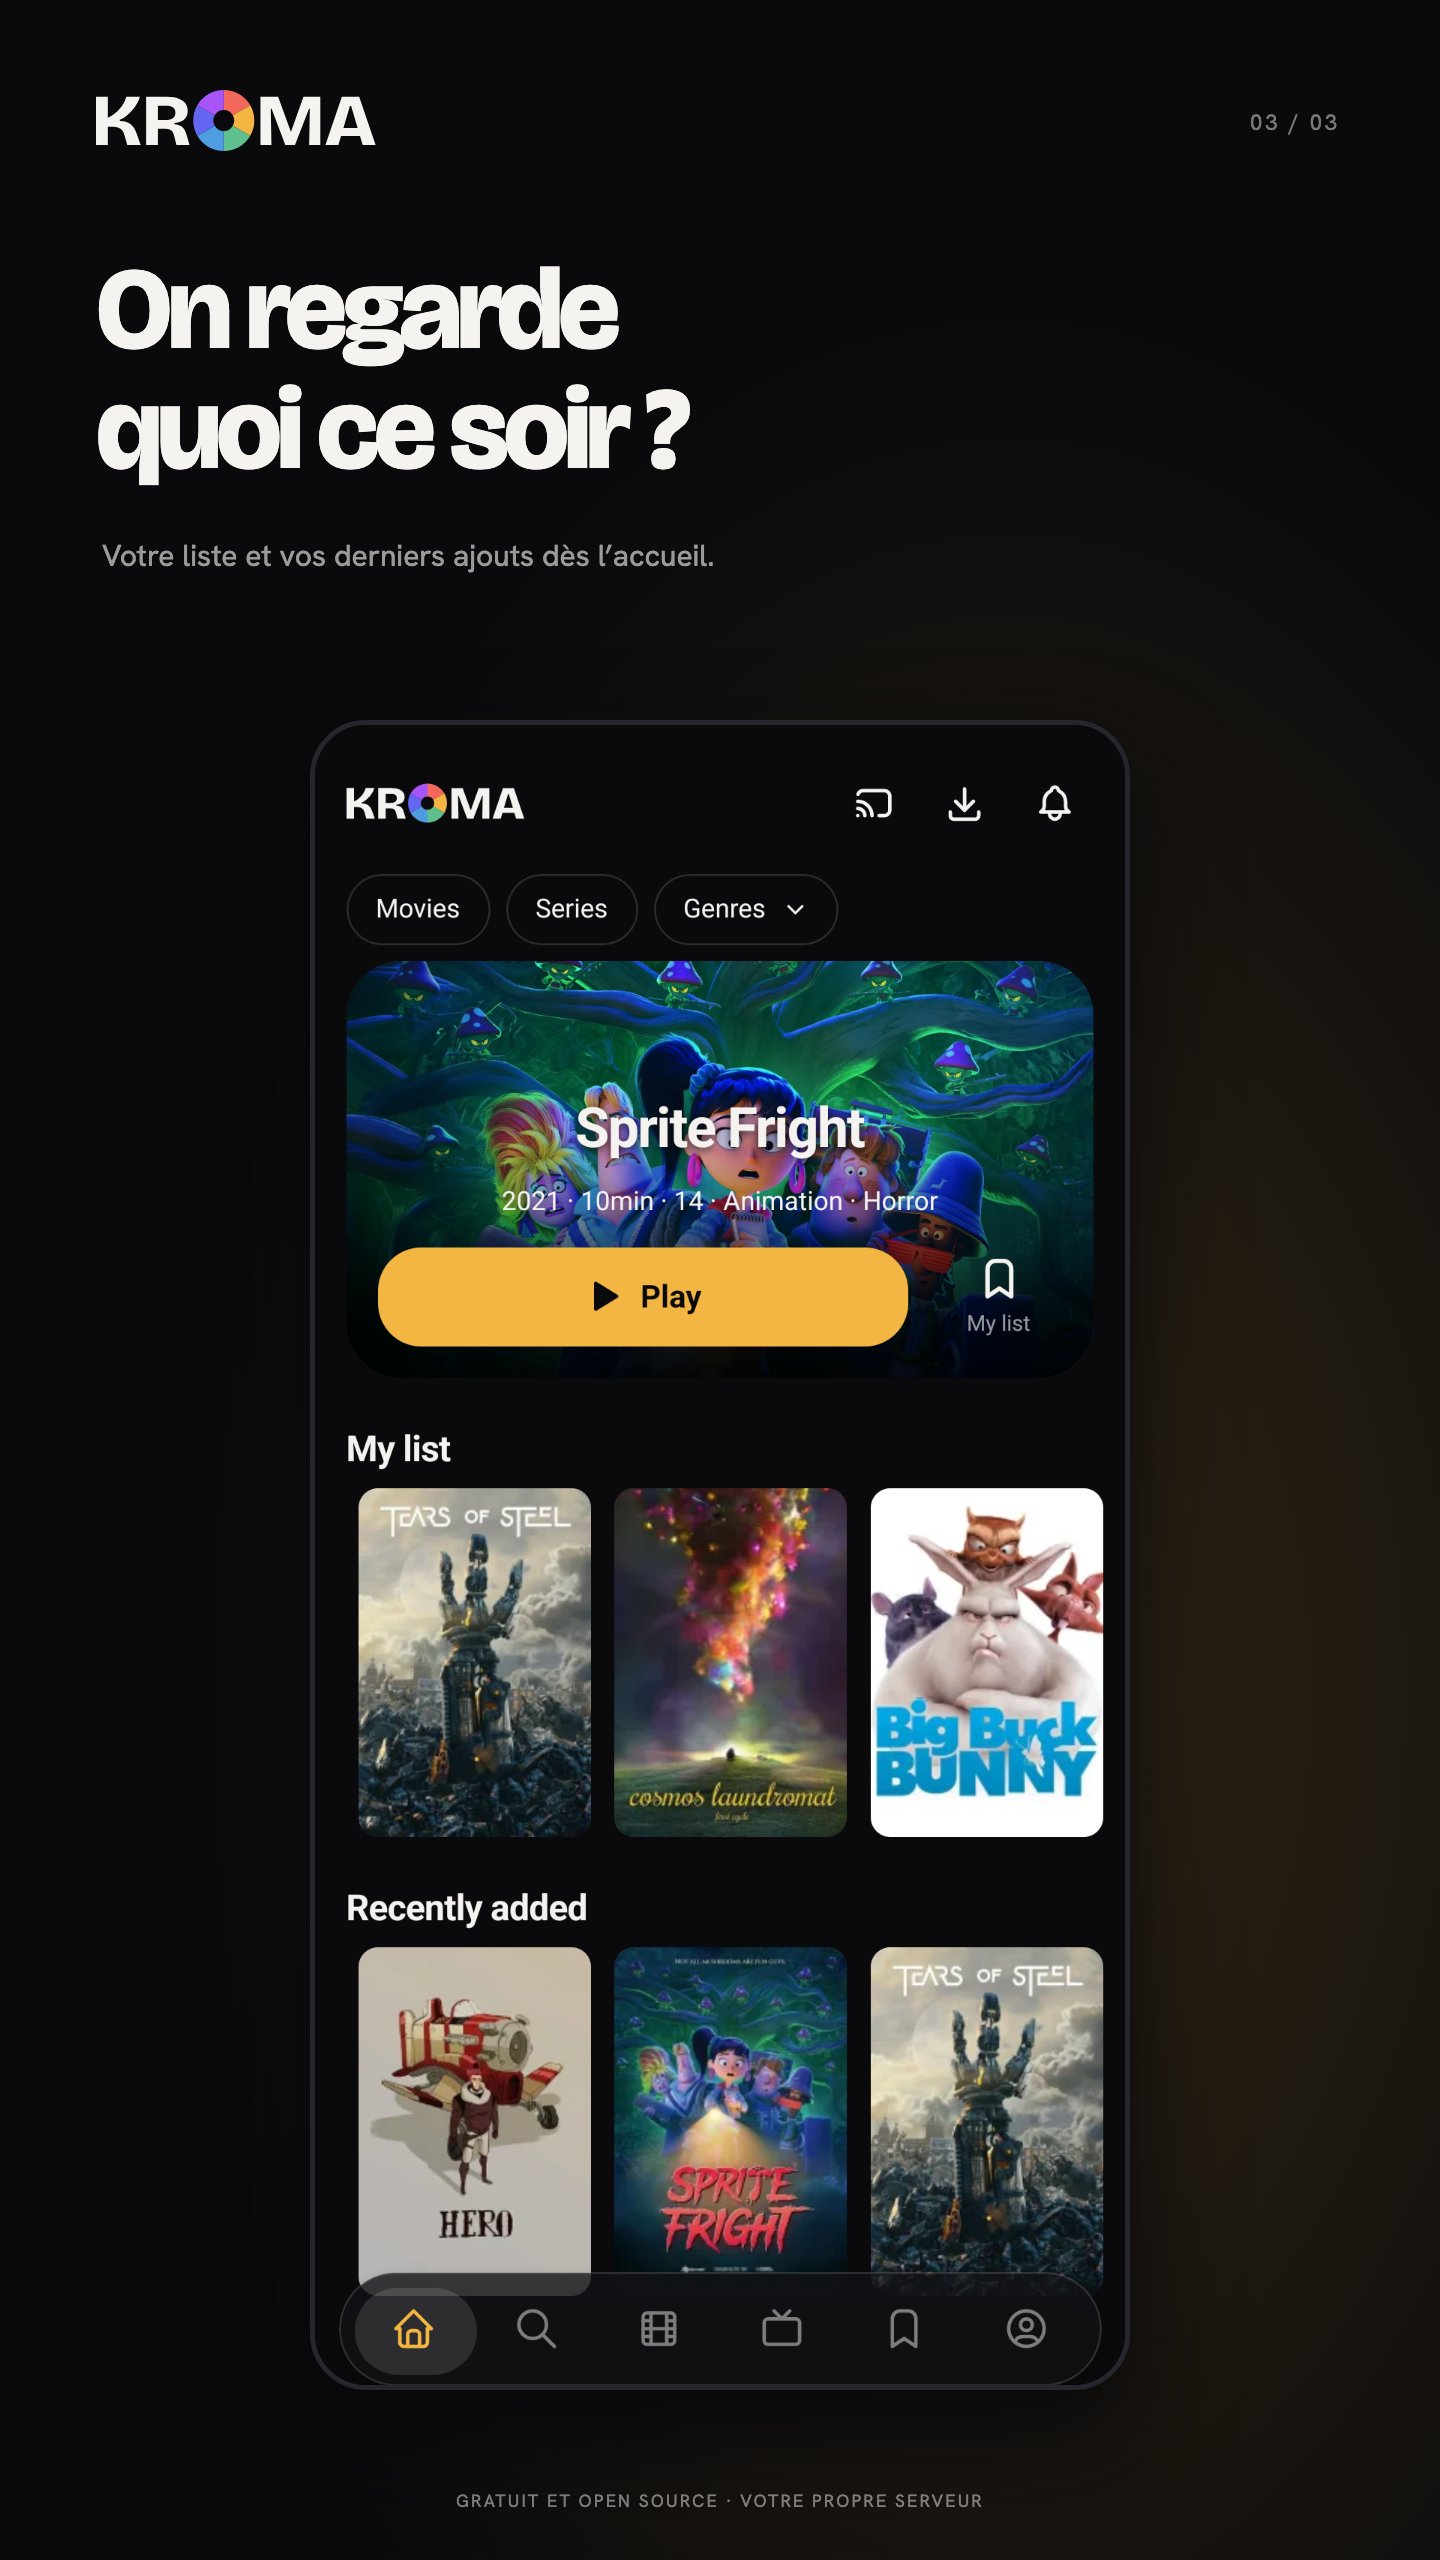
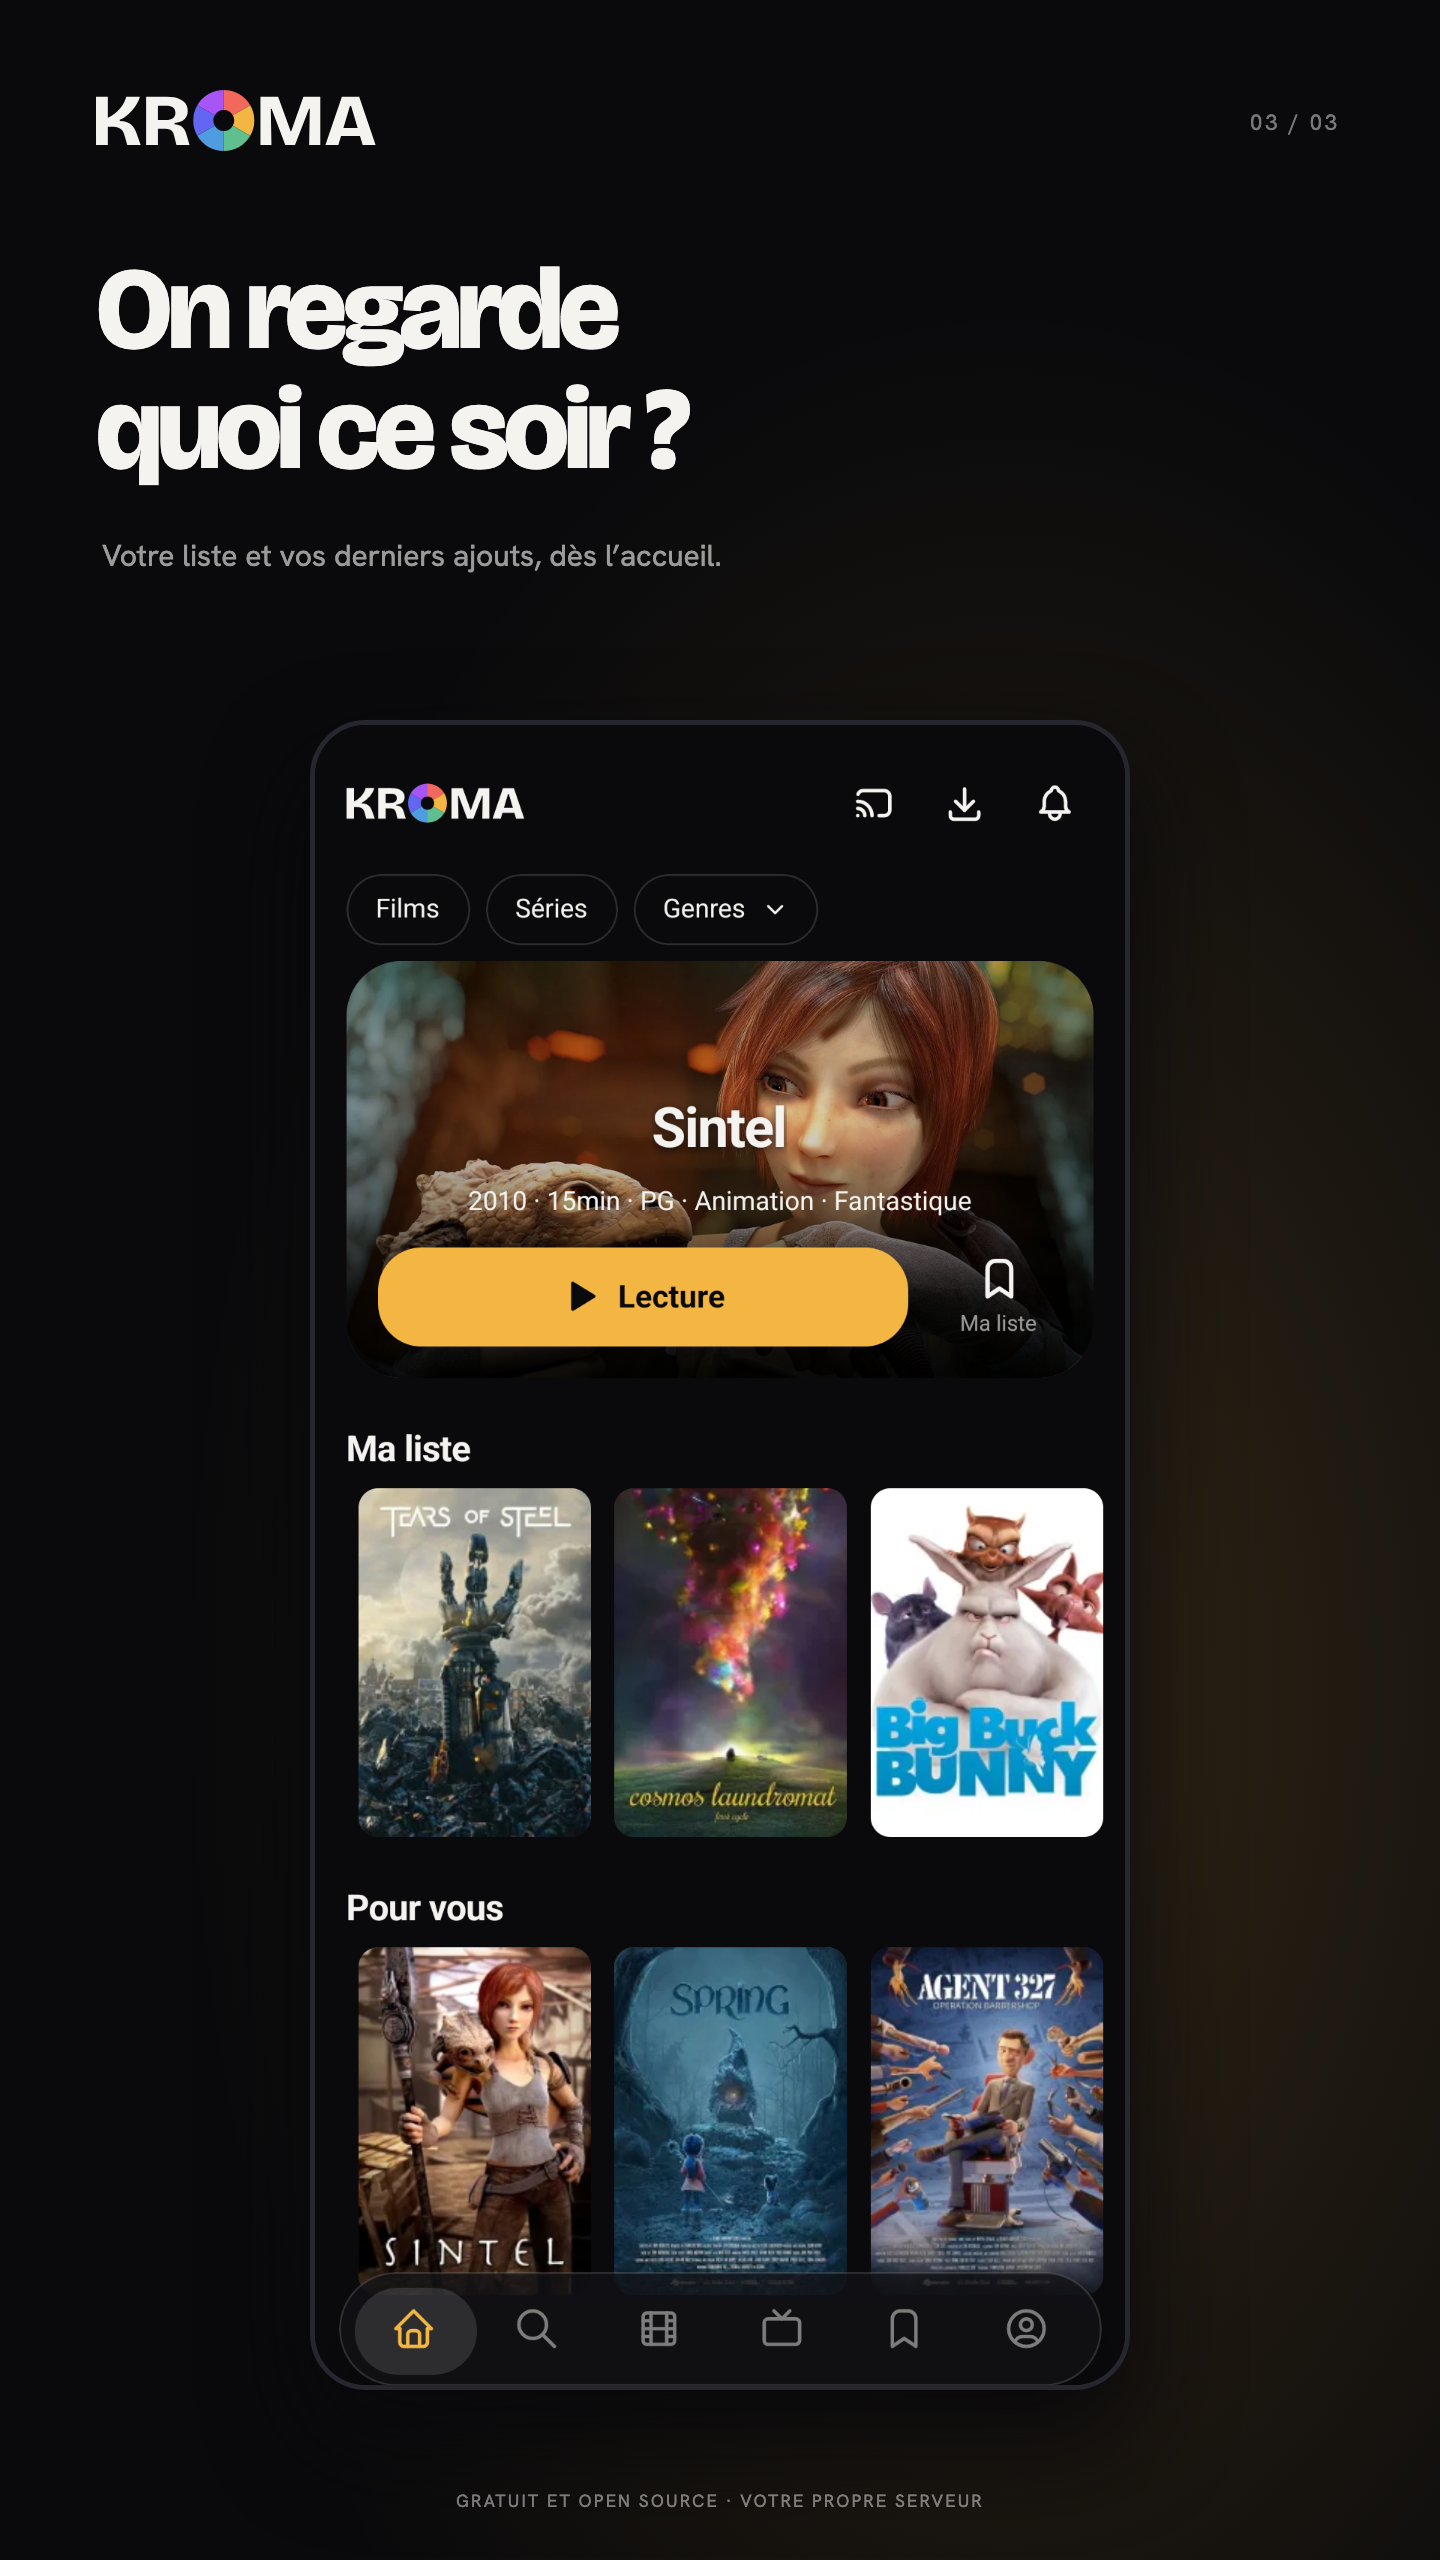
docs(store): write the French Play listing in French (#474)
* docs(store): write the French Play listing in French

The copy now starts from the intent instead of the English sentences, and the
French phone screenshots show the app in French instead of English captures
with French captions.

* style(store): format the exporter's capture table

Changed region(s): [[0.25, 0.7188, 0.7812, 0.9062], [0.2188, 0.3438, 0.7812, 0.5312], [0.2812, 0.5625, 0.3125, 0.5938]]

diff --git a/clients/tv-build/play-store-art.ts b/clients/tv-build/play-store-art.ts
@@ -5,7 +5,10 @@ import { chromium } from 'playwright';
 
 const repo = resolve(import.meta.dirname, '../..');
 const store = resolve(repo, 'store/google-play');
-const raw = resolve(store, 'captures/android-phone');
+const rawCaptures: Record<string, string> = {
+  'en-US': resolve(store, 'captures/android-phone'),
+  'fr-FR': resolve(store, 'captures/android-phone-fr'),
+};
 const metadata = resolve(repo, 'fastlane/metadata/android');
 
 function data(path: string, mime: string) {
@@ -38,15 +41,19 @@ const captions = {
   },
   'fr-FR': {
     feature: 'Votre cinéma.\nSur tous vos écrans.',
-    featureBody: 'Votre bibliothèque, chez vous.',
+    featureBody: 'Toute votre collection, au même endroit.',
     footer: 'GRATUIT ET OPEN SOURCE · VOTRE PROPRE SERVEUR',
     shots: [
-      ['01-movies', 'Votre cinéma.\nDans votre poche.', 'Vos films ont trouvé leur place.'],
-      ['02-detail', 'L’histoire\ncommence ici.', 'Affiches, distribution et détails réunis.'],
+      [
+        '01-movies',
+        'Votre cinéma.\nPartout avec vous.',
+        'Tous vos films, rangés et prêts à lancer.',
+      ],
+      ['02-detail', 'Tout sur\nvotre film.', 'L’affiche, le résumé, les détails : tout est là.'],
       [
         '03-home',
         'On regarde\nquoi ce soir ?',
-        'Votre liste et vos derniers ajouts dès l’accueil.',
+        'Votre liste et vos derniers ajouts, dès l’accueil.',
       ],
     ],
   },
@@ -111,7 +118,7 @@ for (const [locale, copy] of Object.entries(captions)) {
     resolve(images, 'tvBanner.png'),
   );
   for (const [name, headline, description] of copy.shots) {
-    const capture = data(resolve(raw, `${name}.png`), 'image/png');
+    const capture = data(resolve(rawCaptures[locale], `${name}.png`), 'image/png');
     await render(
       htmlDocument(
         `<div class="bloom"></div><img class="brand" src="${lockup}"><span class="index">${name.slice(0, 2)} / 03</span><h1>${escape(headline)}</h1><p class="description">${escape(description)}</p><div class="phone"><img src="${capture}"></div><p class="footer">${escape(copy.footer)}</p>`,

diff --git a/store/google-play/README.md b/store/google-play/README.md
@@ -16,7 +16,7 @@ The listing copy and uploadable PNGs use the Fastlane metadata layout under
 
 The three screenshots tell a sequence: movie collection, movie details,
 and the home screen. French exports have French marketing
-captions and the same English app captures. The metadata explains that KROMA
+captions and the app itself in French, from `captures/android-phone-fr`. The metadata explains that KROMA
 requires a compatible server and the user's own media.
 
 ## Rebuild
